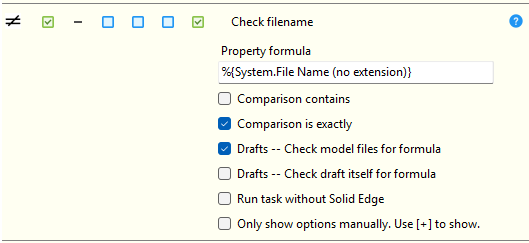
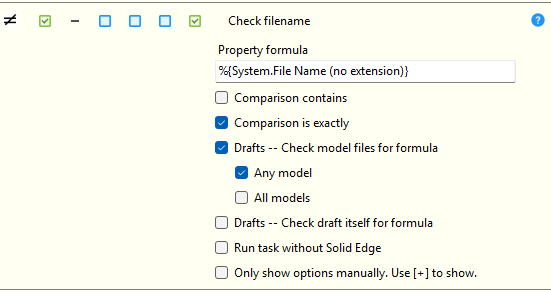
Check Filename: Added All Models option

Changed region(s): [[0.0, 0.144, 1.0, 1.0], [0.0, 0.0, 1.0, 0.1152], [0.3629, 0.749, 0.3932, 0.7778]]

diff --git a/HelpTopics.md b/HelpTopics.md
@@ -1276,9 +1276,11 @@ There are two comparison methods.
 - `Comparison is exactly` looks for an exact match.  With the previous example, the program would report an error. 
 
 For `*.dft` files, there are two ways to search.  You can use either one, or both. 
-- `Check model files` is the option most users will want.  It searches any models linked to the file for a property match.  
+- `Check model files` is the option most users will want.  It searches models linked to the file for a property match.  
+    - `Any model` satisfies the comparison if any model in the draft matches.  
+    - `All models` satisfies the comparison only if all models in the draft match.  
 - `Check draft itself` searches properties in the draft file.  Since draft files rarely have properties of their own, this is usually not necessary. Also, because missing properties are reported as an error, it can be distracting/confusing as well. 
-- `Check draft itself`  I'm not done with this.  In the example above, the program will check if the model and draft files have the same name.  With this option enabled, it would check if the draft file has the same name as itself.  That will always be true, and never be what you want. 
+- `Check draft itself`  Yes, this is a repeat of the last bullet point; I'm not done with it.  In the example above, the program will check if the model and draft files have the same name.  With this option enabled, it would check if the *draft file has the same name as itself*.  That will always be true, and won't tell you anything you don't already know. 
 
 </details>
 

diff --git a/README.md b/README.md
@@ -1276,9 +1276,11 @@ There are two comparison methods.
 - `Comparison is exactly` looks for an exact match.  With the previous example, the program would report an error. 
 
 For `*.dft` files, there are two ways to search.  You can use either one, or both. 
-- `Check model files` is the option most users will want.  It searches any models linked to the file for a property match.  
+- `Check model files` is the option most users will want.  It searches models linked to the file for a property match.  
+    - `Any model` satisfies the comparison if any model in the draft matches.  
+    - `All models` satisfies the comparison only if all models in the draft match.  
 - `Check draft itself` searches properties in the draft file.  Since draft files rarely have properties of their own, this is usually not necessary. Also, because missing properties are reported as an error, it can be distracting/confusing as well. 
-- `Check draft itself`  I'm not done with this.  In the example above, the program will check if the model and draft files have the same name.  With this option enabled, it would check if the draft file has the same name as itself.  That will always be true, and never be what you want. 
+- `Check draft itself`  Yes, this is a repeat of the last bullet point; I'm not done with it.  In the example above, the program will check if the model and draft files have the same name.  With this option enabled, it would check if the *draft file has the same name as itself*.  That will always be true, and won't tell you anything you don't already know. 
 
 </details>
 

diff --git a/release_notes.md b/release_notes.md
@@ -15,12 +15,22 @@ Feel free to report bugs and/or ideas for improvement on the [<ins>**Solid Edge 
 
 ## V2026.4
 
+### Check filename
+
+Added an option to require a match of all draft models.  (Thank you **@sven-11111!**)
+
+![UpdateDrawingStylesFromTemplate](My%20Project/media/task_check_filename.png)
+
+Previously, if any draft models matched, the check passed.  Now you decide how it is handled.
+
+Also, fixed an issue where draft model files were checking their own filenames, not the draft file.  
+
+See the [<ins>**Check Filename Help Topic**</ins>](https://github.com/rmcanany/SolidEdgeHousekeeper/blob/master/HelpTopics.md#check-filename) for details.
 
 ### Other
 
 - Changed the name of `Update drawing views` to `Update drawings`.  Added an option to select all parts lists and tables.  Disable to select them individually.
-- For `Check drawings`, added centerlines, weld symbols and several others to the `Detached dimensions or annotations` check.  (Thank you **@sven-11111!**)
-- Fixed an issue with `Check filenames` where draft model files were checking their own filenames, not the draft file.  (Thank you again **@sven-11111!**)
+- For `Check drawings`, added centerlines, weld symbols and several others to the `Detached dimensions or annotations` check.  (Thank you again **@sven-11111!**)
 
 ## V2026.3
 
